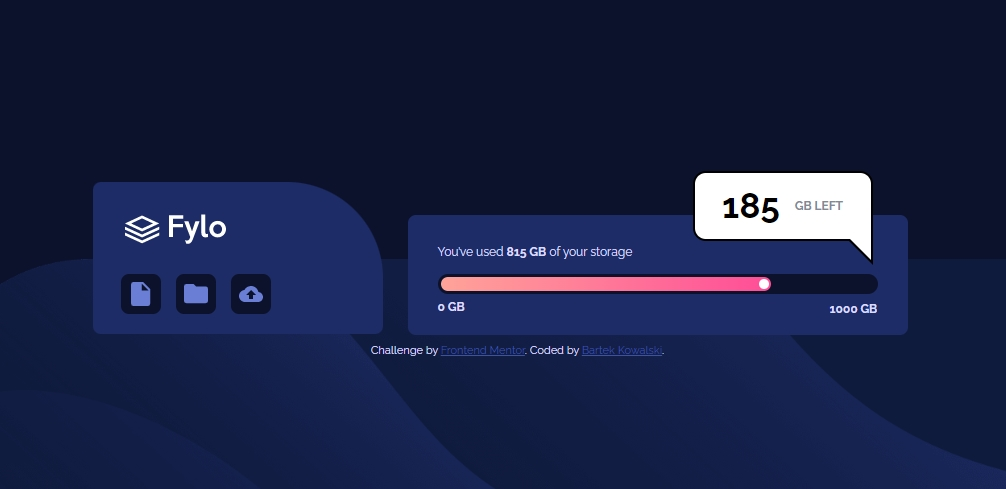
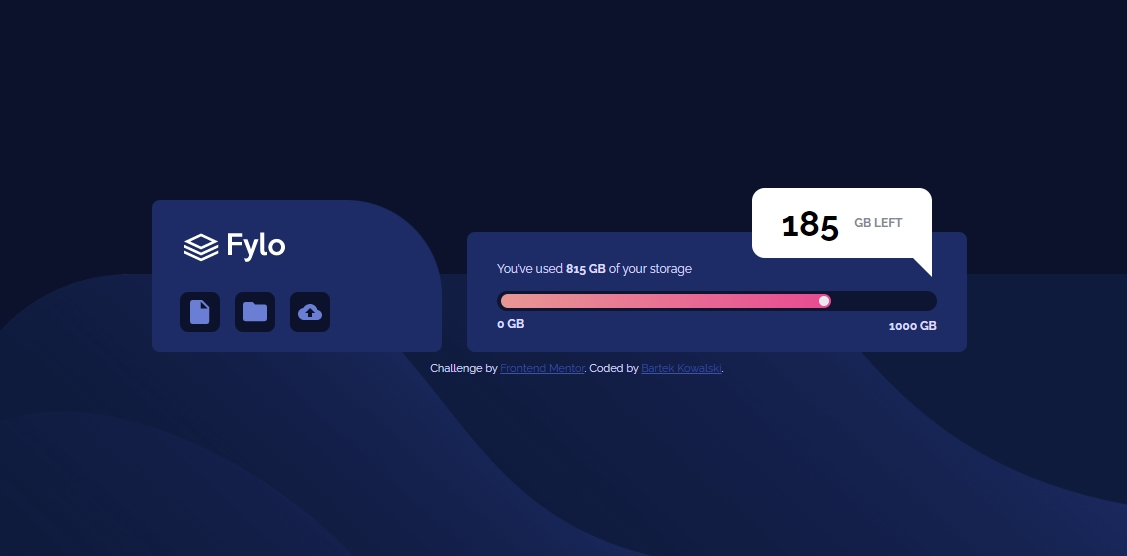
change cloud border

Changed region(s): [[0.0616, 0.3374, 0.9245, 0.7362], [0.832, 0.7669, 1.0, 0.9816], [0.5239, 0.9816, 0.5855, 1.0]]

diff --git a/styles.css b/styles.css
@@ -24,7 +24,7 @@ body {
 .attribution {
   font-size: 11px;
   text-align: center;
-  margin-top: 105px;
+  margin-top: 85px;
   margin-left: -280px;
 }
 .attribution a {
@@ -127,6 +127,7 @@ body {
   display: flex;
   justify-content: center;
   align-items: center;
+  opacity: 90%;
 }
 
 .gradient {
@@ -168,7 +169,6 @@ body {
   background-color: white;
   margin-left: 255px;
   border-radius: 0.8rem;
-  border: 2px solid black;
   margin-top: -145px;
   display: flex;
   justify-content: center;
@@ -180,26 +180,10 @@ body {
   height: 0;
   border-top: 31px solid white;
   border-left: 31px solid transparent;
-  margin-left: 402px;
-  margin-top: -36px;
+  margin-left: 404px;
+  margin-top: -12px;
 }
 
-.triangle-background {
-  width: 0;
-  height: 0;
-  border-top: 35px solid black;
-  border-left: 35px solid transparent;
-  margin-left: 400px;
-  margin-top: -11px;
-}
-
-.white-square {
-  width: 20px;
-  height: 20px;
-  background-color: white;
-  margin-left: 400px;
-  margin-top: -41px;
-}
 
 .text5 {
   font-size: 35px;

diff --git a/index.html b/index.html
@@ -44,9 +44,7 @@
           <div class="text5">185</div>
           <div class="text6">GB LEFT</div>
         </div>
-        <div class="triangle-background"></div>
         <div class="triangle-topright"></div>
-        <div class="white-square"></div>
         <div class="attribution">
           Challenge by
           <a href="https://www.frontendmentor.io?ref=challenge" target="_blank"
